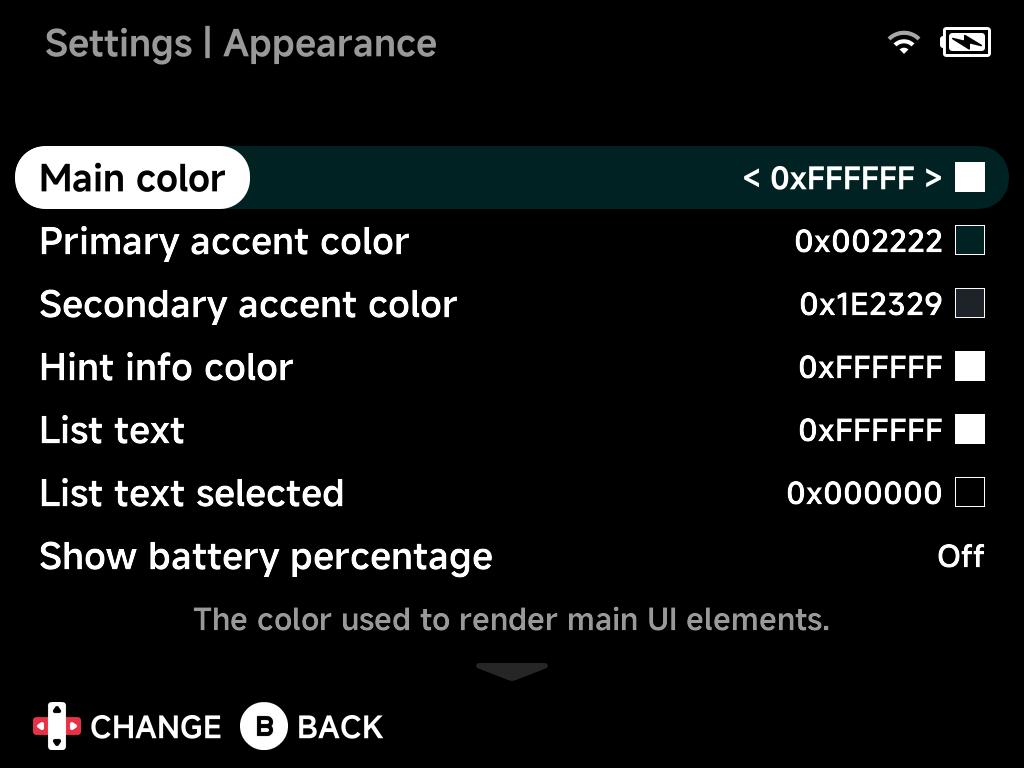
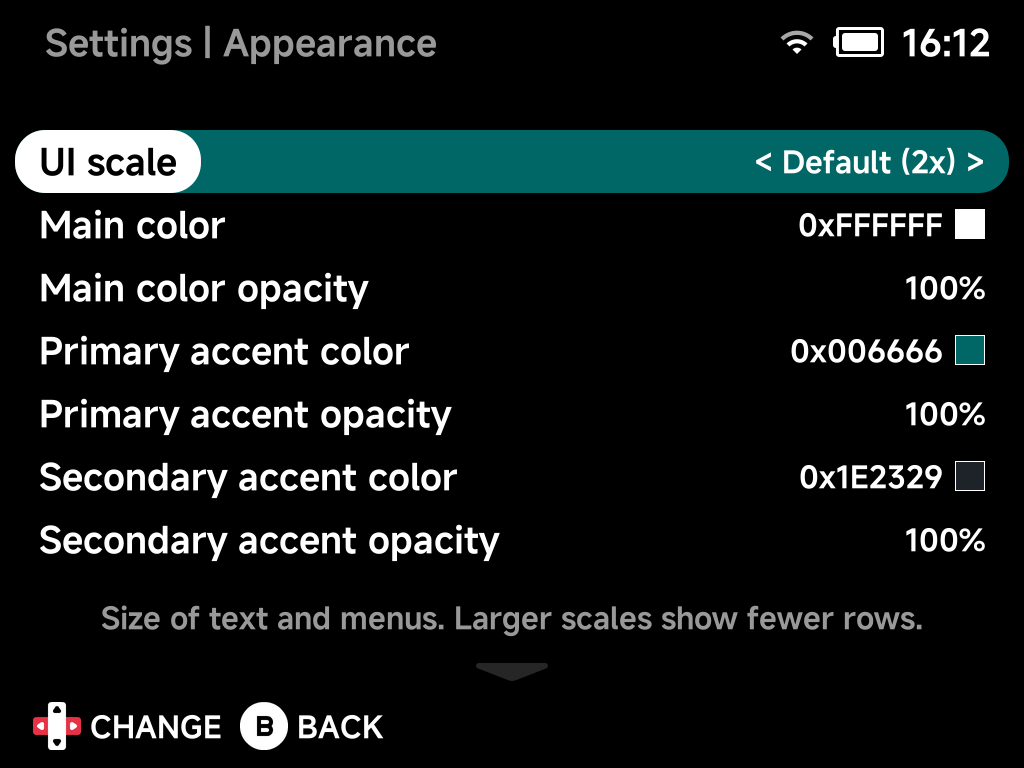
docs(settings): document the UI scale option in Appearance

diff --git a/docs/settings/appearance.md b/docs/settings/appearance.md
@@ -1,9 +1,30 @@
 # Appearance
 
-UI customization — colors (with live swatches), animations, and which
-entries the main menu shows.
+UI customization — UI scale, colors (with live swatches), animations, and
+which entries the main menu shows.
 
 ![Appearance settings](../assets/screenshots/set-appearance.png)
+
+## UI scale
+
+Size of text and menus across the whole UI. Choose **Default**, **1x** or
+**2x**. **2x** is larger and shows fewer rows, **1x** is smaller and shows
+more.
+
+- **Default** follows the device and shows which scale that is: **Default
+  (2x)** on the Brick, **Default (1x)** on the Brick Pro and Smart Pro S.
+- Settings redraws at the new scale straight away. The main menu, the other
+  tools and the in-game menus pick it up the next time they start, which for
+  the main menu is as soon as you leave Settings.
+- The Dreamcast and Nintendo 64 in-game menus use the same scale.
+
+*Default (2x) on the Brick*
+
+![Tools list at Default (2x)](../assets/screenshots/ui-scale-default.png)
+
+*1x on the Brick*
+
+![Tools list at 1x](../assets/screenshots/ui-scale-1x.png)
 
 ## Main color
 

diff --git a/docs/settings/index.md b/docs/settings/index.md
@@ -7,7 +7,7 @@ place — each page of the Settings app is documented on its own page here.
 ![Settings](../assets/screenshots/settings.png)
 
 - [Display](display.md) — brightness and panel tuning
-- [Appearance](appearance.md) — colors, animations and what the menus show
+- [Appearance](appearance.md) — UI scale, colors, animations and what the menus show
 - [In-game Notifications](notifications.md) — save/load/screenshot toasts
 - [LED Control](led-control.md) — per-zone lighting effects
 - [Network](network.md) — Wi-Fi
